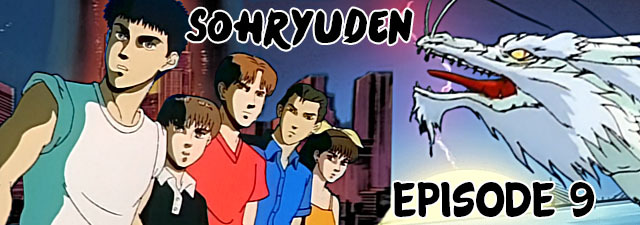
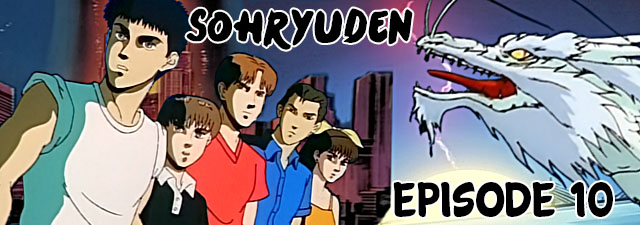
new release

Changed region(s): [[0.875, 0.7778, 0.9688, 0.9644]]

diff --git a/sohryuden.html b/sohryuden.html
@@ -50,52 +50,57 @@
 					<p>Adaptée très librement du manga, notamment au niveau du design des personnages, Sohryuden est une série plus proche des années 80 que 90, à prendre impérativement au second degré de par son exagération qui touche parfois au gore, mais qui reste un bon divertissement.</p>
 					<h3>Téléchargements et streaming</h3>
 					Sur serveur :
-					<p class="links dl"><a href="http://ddl.nobluesub.com/sohryuden.html" class="button-dl">Dédié</a></p>
+					<p class="links dl"><a href="https://ddl.nobluesub.com/sohryuden.html" class="button-dl">Dédié</a></p>
 					<br>
-					Episode 1 :
+					Episode 01 :
 					<p class="links dl"><a href="http://jheberg.net/captcha/nobluesub-sohryuden-01-640x480-x264/" class="button-dl">Jheberg</a></p>&nbsp; | &nbsp;
 					<p class="links dl"><a href="https://rutube.ru/video/02a8bc26f97dad34abd8f876aeedd54a/" class="button-dl">Rutube</a></p>&nbsp; | &nbsp;
 					<p class="links dl"><a href="https://mega.nz/#!HRNiSL7Q!jIER_e-xwEpuZ0XOGxNOK7DHBjDfLUaDLhXY1T0Bw4c" class="button-dl">Mega</a></p>
 					<br>
-					Episode 2 :
+					Episode 02 :
 					<p class="links dl"><a href="http://jheberg.net/captcha/nobluesub-sohryuden-02-640x480-x264/" class="button-dl">Jheberg</a></p>&nbsp; | &nbsp;
 					<p class="links dl"><a href="https://rutube.ru/video/08016cd194d7c96192f90fcb9067caa7/" class="button-dl">Rutube</a></p>&nbsp; | &nbsp;
 					<p class="links dl"><a href="https://mega.nz/#!eV1QnTjC!dhTz7f3ehaGowEl1wULxgbtbv2OSlTFgK4UnDUXqofw" class="button-dl">Mega</a></p>
 					<br>
-					Episode 3 :
+					Episode 03 :
 					<p class="links dl"><a href="http://jheberg.net/captcha/nobluesub-sohryuden-03v2-640x480-x264/" class="button-dl">Jheberg</a></p>&nbsp; | &nbsp;
 					<p class="links dl"><a href="https://rutube.ru/video/c37534e7ec92736f68427bda39465626/" class="button-dl">Rutube</a></p>&nbsp; | &nbsp;
 					<p class="links dl"><a href="https://mega.nz/#!eEFSDKIJ!V-YuIYdtV1OvtHf96W7LHNKiJ-a02DVO5PD-gyC9fkc" class="button-dl">Mega</a></p>
 					<br>
-					Episode 4 :
+					Episode 04 :
 					<p class="links dl"><a href="http://jheberg.net/captcha/nobluesub-sohryuden-04-640x480-x264-2/" class="button-dl">Jheberg</a></p>&nbsp; | &nbsp;
 					<p class="links dl"><a href="https://rutube.ru/video/023e7f1af330e3e83d3f7835ed320c08/" class="button-dl">Rutube</a></p>&nbsp; | &nbsp;
 					<p class="links dl"><a href="https://mega.nz/#!edFFzTbK!2e6LO7SItpno5cmTaVNh0GoTcg9l4g5WCFKsCmPPoyk" class="button-dl">Mega</a></p>
 					<br>
-					Episode 5 :
+					Episode 05 :
 					<p class="links dl"><a href="http://jheberg.net/captcha/nobluesub-sohryuden-05-640x480-x264/" class="button-dl">Jheberg</a></p>&nbsp; | &nbsp;
 					<p class="links dl"><a href="https://rutube.ru/video/6bcc00f257bd8fd28f0502558cab935e/" class="button-dl">Rutube</a></p>&nbsp; | &nbsp;
 					<p class="links dl"><a href="https://mega.nz/#!jMUVRYJY!rigWjr_F0MxvQbUwCfVsQLdQaJ0kfELeduVJYEIZF6U" class="button-dl">Mega</a></p>
 					<br>
-					Episode 6 :
+					Episode 06 :
 					<p class="links dl"><a href="http://jheberg.net/captcha/nobluesub-sohryuden-06-640x480-x264-2/" class="button-dl">Jheberg</a></p>&nbsp; | &nbsp;
 					<p class="links dl"><a href="https://rutube.ru/video/0e8af5ea85a85025971fbeb59e84a1ac/" class="button-dl">Rutube</a></p>&nbsp; | &nbsp;
 					<p class="links dl"><a href="https://mega.nz/#!2AURDAKT!yur83eC9YA5XfWMRWfBCzYiI5g6ZoR6_qulkLydL66E" class="button-dl">Mega</a></p>
 					<br>
-					Episode 7 :
+					Episode 07 :
 					<p class="links dl"><a href="http://jheberg.net/captcha/nobluesub-sohryuden-07-640x480-x264/" class="button-dl">Jheberg</a></p>&nbsp; | &nbsp;
 					<p class="links dl"><a href="https://rutube.ru/video/68c5c7cc1d6f4897929cd27ad0aea382/" class="button-dl">Rutube</a></p>&nbsp; | &nbsp;
 					<p class="links dl"><a href="https://mega.nz/#!bV0kSCqK!uTtWJqqS5PtXATuJt9NKzt_IvR1BCE1xZXj2UuI5cuM" class="button-dl">Mega</a></p>
 					<br>
-					Episode 8 :
+					Episode 08 :
 					<p class="links dl"><a href="http://jheberg.net/captcha/nobluesub-sohryuden-08-640x480-x264/" class="button-dl">Jheberg</a></p>&nbsp; | &nbsp;
 					<p class="links dl"><a href="https://rutube.ru/video/84b2fad3e4c67a6c960712f5609a44e0/" class="button-dl">Rutube</a></p>&nbsp; | &nbsp;
 					<p class="links dl"><a href="https://mega.nz/#!PM0TmAaa!Uwi7yiITWuEdBC_p0PDlEE-0Q15Dn64zb7BIy6gx3Dw" class="button-dl">Mega</a></p>
 					<br>
-					Episode 9 :
+					Episode 09 :
 					<p class="links dl"><a href="http://jheberg.net/captcha/nobluesub-sohryuden-09-640x480-x264/" class="button-dl">Jheberg</a></p>&nbsp; | &nbsp;
 					<p class="links dl"><a href="https://rutube.ru/video/f270e4ae46d38635d9caf15ef79f56d9/" class="button-dl">Rutube</a></p>&nbsp; | &nbsp;
 					<p class="links dl"><a href="https://mega.nz/#!OVlFUS4K!04nwzeCAz64cVN9SnPgGUGqaE32xKs__DzMRkyljYuc" class="button-dl">Mega</a></p>
+					<br>
+					Episode 10 :
+					<p class="links dl"><a href="http://jheberg.net/captcha/nobluesub-sohryuden-10-640x480-x264/" class="button-dl">Jheberg</a></p>&nbsp; | &nbsp;
+					<p class="links dl"><a href="https://rutube.ru/video/88fa65d9a226b35bf54714d69d4650b8/" class="button-dl">Rutube</a></p>&nbsp; | &nbsp;
+					<p class="links dl"><a href="https://mega.nz/#!zRdBiIBb!7cGao7EWsgnLNUGBLitsV6YAJcqjXash3iz9WZi60Qc" class="button-dl">Mega</a></p>
 				</div>
 			</div>
 			<div style="clear: both;">&nbsp;</div>

diff --git a/2018-05-26.html b/2018-05-26.html
@@ -1,0 +1,105 @@
+<!DOCTYPE html>
+<html lang="fr-FR">
+	<head>
+		<title>Sohryuden 10 vostfr | Nobluesky Fansub</title>
+		<meta charset="utf-8" />
+		<meta name=viewport content="width=980">
+		<link rel="Shortcut Icon" type="image/x-icon" href="favicon.ico" />
+		<link href="fonts/fonts.css" rel="stylesheet" type="text/css" />
+		<link href="style.css" rel="stylesheet" type="text/css" media="screen" />
+		<link rel="stylesheet" href="menu.css" type="text/css" />
+		<script src="jquery.js" type="text/javascript"></script>
+		<script src="background-script.js" type="text/javascript"></script>
+	</head>
+<body>
+<div class="banner">
+	<a title="Nobluesky Fansub" href="index.html"> <img class="banner" alt="Nobluesky Fansub" title="Nobluesky Fansub" src="images/banner.png"/> </a>
+</div>
+<!-- end banner -->
+<div id="menu-wrapper">
+	<div id="menu">
+		<script type="text/javascript">
+		$( '#menu' ).load( 'menu.html' );
+		</script>
+		<noscript>Activez javascript pour voir le menu!</noscript>
+	</div>
+</div>
+<!-- end #menu -->
+<div id="page-wrapper">
+<div id="sidebar-wrapper">
+	<div id="sidebar">
+		<script type="text/javascript">
+		$( '#sidebar' ).load( 'sidebar.html' );
+		</script>
+	</div>
+	<!-- end #sidebar -->
+</div>
+	<div id="article">
+		<div id="content">
+			<div class="post">
+				<h1 class="title">Sohryuden 10 vostfr</h1>
+				<p class="meta"><span class="date">26 Mai 2018</span><span class="posted">Posté par <a href="about.html#nobluesky">Nobluesky</a></span></p>
+				<div style="clear: both;">&nbsp;</div>
+				<div class="entry">
+					<img class="post-images" src="images/2018/news2.jpg" alt="" />
+					<p>Bonjour à tous,</p>
+					<p>me revoici après une belle interruption forcée par tout un tas de choses. Comme je ne suis pas là pour m'excuser comme un chef d'entreprise japonais véreux pris la main dans le sac, entrons dans le vif du sujet !</p>
+					<p>La dernière fois, la tempête et les conspirations faisaient rage. Voici maintenant une course-poursuite effrénée qui s'annonce, accompagnée d'une critique acerbe de la police japonaise.</p>
+					<p>Nos héros sont décidément destinés à être sans arrêt dérangés dans leur aspiration à une vie paisible. Un épisode toujours peu intellectuel, que j'ai tenté de sublimer par une amélioration de la traduction américaine d'origine qui était aussi subtile qu'un Donald Trump en plein tweet et faisait tomber toutes les blagues des dialogues à l'eau. J'espère que le résultat vous plaira et que vous passerez un bon moment même si, j'en conviens, l'animation n'est pas toujours de toute beauté.</p>
+					<p>Au fait, quelques faux raccords peuplent cet épisode. Saurez-vous les retrouver ?</p>
+					<p>À la prochaine !</p>
+					<h3>Téléchargements et streaming</h3>
+					<p class="links dl"><a href="https://ddl.nobluesub.com/sohryuden.html" class="button-dl">Dédié</a></p>&nbsp; | &nbsp;
+					<p class="links dl"><a href="http://jheberg.net/captcha/nobluesub-sohryuden-10-640x480-x264/" class="button-dl">Jheberg</a></p>&nbsp; | &nbsp;
+					<p class="links dl"><a href="https://rutube.ru/video/88fa65d9a226b35bf54714d69d4650b8/" class="button-dl">Rutube</a></p>&nbsp; | &nbsp;
+					<p class="links dl"><a href="https://mega.nz/#!zRdBiIBb!7cGao7EWsgnLNUGBLitsV6YAJcqjXash3iz9WZi60Qc" class="button-dl">Mega</a></p>
+					<h3>Commentaires</h3>
+					<div id="disqus_thread"></div>
+					<script type="text/javascript">
+						/* * * CONFIGURATION VARIABLES: EDIT BEFORE PASTING INTO YOUR WEBPAGE * * */
+						var disqus_shortname = 'noblueskyfansub'; // required: replace example with your forum shortname
+
+						/* * * DON'T EDIT BELOW THIS LINE * * */
+						(function() {
+							var dsq = document.createElement('script'); dsq.type = 'text/javascript'; dsq.async = true;
+							dsq.src = '//' + disqus_shortname + '.disqus.com/embed.js';
+							(document.getElementsByTagName('head')[0] || document.getElementsByTagName('body')[0]).appendChild(dsq);
+						})();
+					</script>
+					<noscript>Activez javascript pour voir les commentaires.</noscript>
+					<a href="http://disqus.com" class="dsq-brlink">commentaires propulsés par <span class="logo-disqus">Disqus</span></a>
+				</div>
+			</div>
+			<div style="clear: both;">&nbsp;</div>
+		</div>
+		<!-- end #content -->
+		<div style="clear: both;">&nbsp;</div>
+	</div>
+</div>
+<!-- end #page -->
+<script type="text/javascript">
+$(window).scroll(function() {
+    if ($(this).scrollTop() < 1000) {
+        $("#footer").hide();
+    }
+    else {
+        $("#footer").show();
+    }
+});
+$(window).scroll(function() {
+  if ($(this).scrollTop() < 1000) {
+    $("footer").slideUp();
+      }
+  else {
+    $("footer").slideDown();
+      }
+});		
+</script>
+<div id="footer">
+	<script type="text/javascript">
+	$( '#footer' ).load( 'footer.html' );
+	</script>
+</div>
+<!-- end #footer -->
+</body>
+</html>

diff --git a/index.html b/index.html
@@ -35,7 +35,7 @@
 <div id="page-wrapper">
 	<div class="slider-wrapper theme-default">
 		<div id="slider" class="nivoSlider">
-			<a href="2018-02-17.html"><img src="images/img01.jpg" alt="" /></a><a href="2017-10-02.html"><img src="images/img02.jpg" alt="" /></a>
+			<a href="2018-05-26.html"><img src="images/img01.jpg" alt="" /></a><a href="2017-10-02.html"><img src="images/img02.jpg" alt="" /></a>
 		</div>
 	</div>
 <script type="text/javascript">
@@ -150,11 +150,11 @@
 			<script type="text/javascript">
 			$(".post").each(function() {
 			$(this).html($(this).html()
-			.replace(/#urlpost1/g, '2018-02-17.html')
-			.replace(/#urlpost2/g, '2017-12-25.html')
-			.replace(/#urlpost3/g, '2017-12-20.html')
-			.replace(/#urlpost4/g, '2017-11-10.html')
-			.replace(/#urlpost5/g, '2017-10-02.html'));
+			.replace(/#urlpost1/g, '2018-05-26.html')
+			.replace(/#urlpost2/g, '2018-02-17.html')
+			.replace(/#urlpost3/g, '2017-12-25.html')
+			.replace(/#urlpost4/g, '2017-12-20.html')
+			.replace(/#urlpost5/g, '2017-11-10.html'));
 			});
 			</script>
 			<div id="button-page-wrapper">

diff --git a/page2.html b/page2.html
@@ -138,11 +138,11 @@
 			<script type="text/javascript">
 			$(".post").each(function() {
 			$(this).html($(this).html()
-			.replace(/#urlpost6/g, '2017-09-19.html')
-			.replace(/#urlpost7/g, '2017-09-02.html')
-			.replace(/#urlpost8/g, '2017-08-28.html')
-			.replace(/#urlpost9/g, '2017-08-23.html')
-			.replace(/#urlpost10/g, '2017-08-18.html'));
+			.replace(/#urlpost6/g, '2017-10-02.html')
+			.replace(/#urlpost7/g, '2017-09-19.html')
+			.replace(/#urlpost8/g, '2017-09-02.html')
+			.replace(/#urlpost9/g, '2017-08-28.html')
+			.replace(/#urlpost10/g, '2017-08-23.html'));
 			});
 			</script>
 			<div id="button-page-wrapper">

diff --git a/archives.html b/archives.html
@@ -47,6 +47,7 @@
 					<div>
 					<!-- here comes spoiler content -->
 					<div style="clear: both;">&nbsp;</div>
+					<p><a href="2017-08-18.html" target="_blank" >chargement en cours...</a></p>
 					<p><a href="2017-08-11.html" target="_blank" >chargement en cours...</a></p>
 					<p><a href="2017-08-06.html" target="_blank" >chargement en cours...</a></p>
 					<p><a href="2017-07-28.html" target="_blank" >chargement en cours...</a></p>

diff --git a/sidebar.html b/sidebar.html
@@ -29,9 +29,9 @@
 		<li>
 			<h2>Avancements</h2>
 			<ul id="avancements" style="list-style: none!important;">
-				<li>Sohryuden 10 : 65%
+				<li>Sohryuden 10 : 100%
 					<div class="progress-bar blue stripes" title="Progression" >
-					<span style="width: 65%"></span>
+					<span style="width: 100%"></span>
 					</div>
 				</li>
 			</ul>
